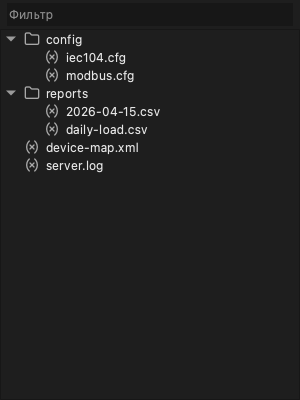
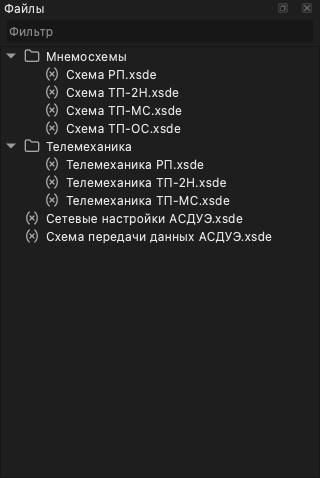
39: capture the Files and Favourites panes with their dock frame, over a file store
Option (a) of the 2026-09-26 audit (fc669776b): the generated captures were
called duplicates of the manual's hand-captured originals on the strength of
rendering the same view, and opening both showed they do not show the same
thing. Two differences, both closed here.

**The frame.** A pane grabbed bare is a rectangle of content with nothing
saying what it is or that it can be moved or closed; `menu-files.png` is a
titled "Файлы" panel and that framing is most of what it tells a reader. A new
`frame` flag on a view spec grabs the QDockWidget instead of the view.

It needs its own save path rather than the existing one, and the reason is a
trap worth knowing: a QDockWidget draws its title bar and its float/close
buttons as CHILDREN only while it is docked. `SaveScreenshot` detaches the
widget with setParent(nullptr) so the requested size sticks, which promotes the
dock to a top-level window and hands that chrome to a window manager -- and
under QT_QPA_PLATFORM=offscreen there is none, so the grab comes back as the
bare content with the frame silently gone. A valid PNG of the right size, just
not of the thing asked for. `SaveFramedScreenshot` therefore resizes and grabs
in place, trading an exact size for the frame.

**The content.** The fixture's file store held iec104.cfg, modbus.cfg,
daily-load.csv, device-map.xml and server.log -- build artefacts. The page that
embeds this capture says, in its own prose, that the pane shows "файлы
[…]

Changed region(s): [[0.0, 0.0, 0.87, 0.51], [0.93, 0.0, 0.99, 0.03], [0.87, 0.0, 0.9, 0.03]]

diff --git a/tools/screenshot_generator/widget_capture.cpp b/tools/screenshot_generator/widget_capture.cpp
@@ -54,6 +54,32 @@ QPixmap GrabWhenSettled(QWidget* widget) {
   return pixmap;
 }
 
+void SaveFramedScreenshot(QWidget* framed, const ScreenshotSpec& spec) {
+  if (!framed)
+    return;
+
+  // Deliberately NOT the detach-and-resize path `SaveScreenshot` takes below.
+  // A QDockWidget draws its title bar and its float/close buttons as children
+  // only while it is docked; `setParent(nullptr)` promotes it to a top-level
+  // window, where that chrome becomes the window manager's job — and under
+  // `QT_QPA_PLATFORM=offscreen` there is no window manager, so the grab comes
+  // back as the bare content with the frame silently gone. That failure is
+  // invisible: a valid PNG of the right size, just not of the thing asked for.
+  //
+  // So resize in place and grab in place. The size is a request rather than a
+  // guarantee — the dock's layout in the main window has the final say — which
+  // is the cost of keeping the frame.
+  framed->setMinimumSize(spec.width, spec.height);
+  framed->resize(spec.width, spec.height);
+  QApplication::processEvents();
+
+  QPixmap pixmap = GrabWhenSettled(framed);
+  framed->setMinimumSize(0, 0);
+
+  auto path = OutputPathFor(spec.filename);
+  pixmap.save(QString::fromStdString(path.string()));
+}
+
 void SaveScreenshot(QWidget* widget, const ScreenshotSpec& spec) {
   if (!widget)
     return;

diff --git a/tools/screenshot_generator/screenshot_config.h b/tools/screenshot_generator/screenshot_config.h
@@ -84,6 +84,20 @@ struct ScreenshotSpec {
   // Expand every row of a tree-backed window before grabbing. A collapsed
   // tree captures its folders and hides everything the capture is about.
   bool expand = false;
+  // Grab the view's dock frame — its title bar and float/close buttons —
+  // rather than the bare view widget.
+  //
+  // A pane captured bare is a rectangle of content with nothing saying what
+  // it is or where it lives, and the manual's hand-captured originals all
+  // carry the frame: `menu-files.png` is a titled `Файлы` panel, which is what
+  // tells a reader the pane is dockable and closable at all. Auditing the two
+  // side by side on 2026-09-26 (backlog 39) is what put this here — the docs
+  // image and the generated one were called duplicates on the strength of
+  // rendering the same view, and they do not show the same thing.
+  //
+  // Off by default: most captures are of the content, and a frame around a
+  // grid is noise. Set it where the capture's subject IS the pane.
+  bool frame = false;
   // Name of the graph configuration this capture plots ("graph" in the JSON),
   // resolved against the fixture's top-level `graphs` object. Empty means the
   // fixture-wide `graph` object. Two `Graph` captures illustrate different

diff --git a/tools/screenshot_generator/view_capture.cpp b/tools/screenshot_generator/view_capture.cpp
@@ -17,6 +17,7 @@
 #include <QtCore/QElapsedTimer>
 #include <QtWidgets/QAbstractButton>
 #include <QtWidgets/QApplication>
+#include <QtWidgets/QDockWidget>
 #include <QtWidgets/QTableView>
 
 #include <algorithm>
@@ -338,6 +339,19 @@ bool CaptureViewSpec(const ScreenshotSpec& spec,
     // QSplitter children, so we build a fresh graph widget.
     SaveGraphScreenshot(spec, context.executor, context.node_service,
                         context.timed_data_service, context.json);
+  } else if (spec.frame) {
+    // Grab the dock, not the view: the dock owns the title bar and the
+    // float/close buttons, and the view is its content widget. Falls back to
+    // the bare view when the pane is not docked, so the flag degrades to the
+    // default rather than failing a capture.
+    QWidget* framed = qobject_cast<QDockWidget*>(widget->parentWidget());
+    if (!framed) {
+      ADD_FAILURE() << spec.filename << ": frame was requested but "
+                    << spec.window_type
+                    << " is not in a dock; capturing the bare view";
+      framed = widget;
+    }
+    SaveFramedScreenshot(framed, spec);
   } else {
     SaveScreenshot(widget, spec);
   }

diff --git a/tools/screenshot_generator/widget_capture.h b/tools/screenshot_generator/widget_capture.h
@@ -27,3 +27,9 @@ QPixmap GrabWhenSettled(QWidget* widget);
 // Resizes `widget` to the spec dimensions, waits for it to settle, grabs a
 // QPixmap and writes it to `OutputPathFor(spec.filename)`. No-op on null.
 void SaveScreenshot(QWidget* widget, const ScreenshotSpec& spec);
+
+// Saves a capture of a widget that must keep its surrounding chrome — a pane's
+// dock frame, with its title and float/close buttons. Unlike `SaveScreenshot`
+// it never reparents, because the chrome exists only while the widget is where
+// it lives. See the comment on the definition.
+void SaveFramedScreenshot(QWidget* framed, const ScreenshotSpec& spec);

diff --git a/tools/screenshot_generator/screenshot_config.cpp b/tools/screenshot_generator/screenshot_config.cpp
@@ -172,6 +172,8 @@ void ScreenshotConfig::Load(const std::filesystem::path& path) {
       spec.click_object = std::string(click_object->as_string());
     if (const auto* expand = js.as_object().if_contains("expand"))
       spec.expand = expand->as_bool();
+    if (const auto* frame = js.as_object().if_contains("frame"))
+      spec.frame = frame->as_bool();
     if (const auto* graph_config = js.as_object().if_contains("graph"))
       spec.graph_config = std::string(graph_config->as_string());
     if (IsManagedImage(managed_images, spec))
